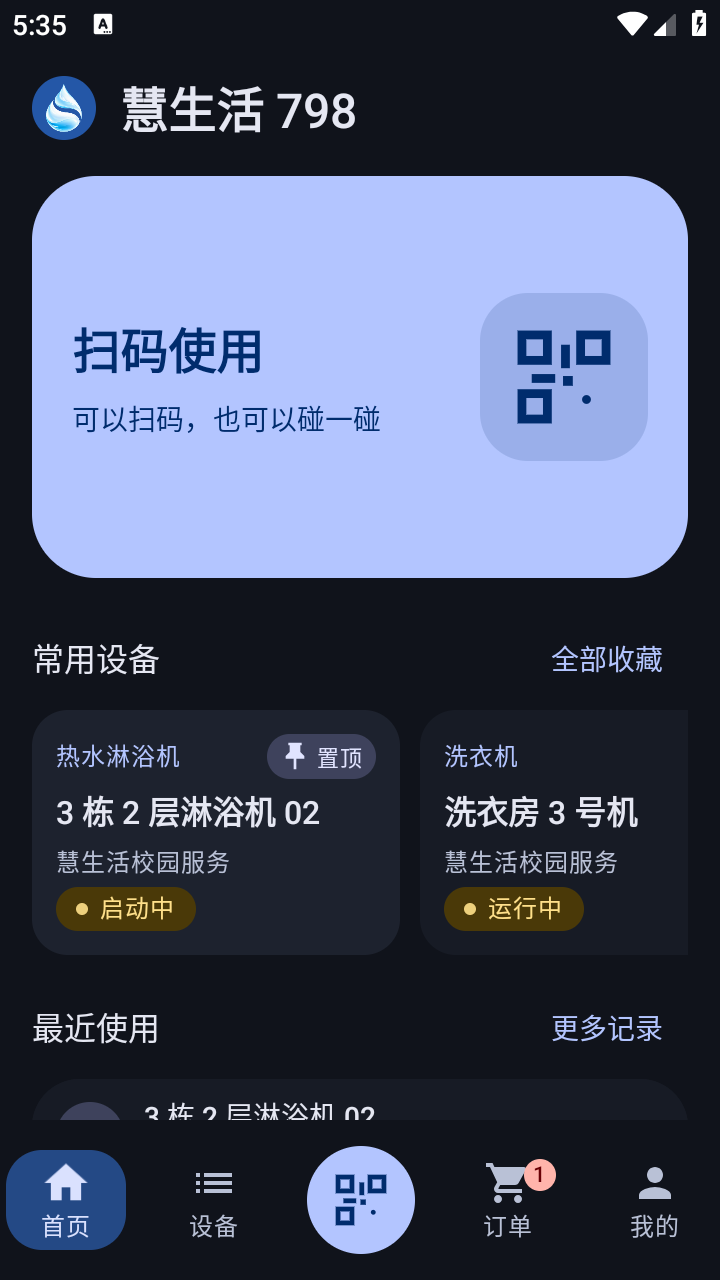
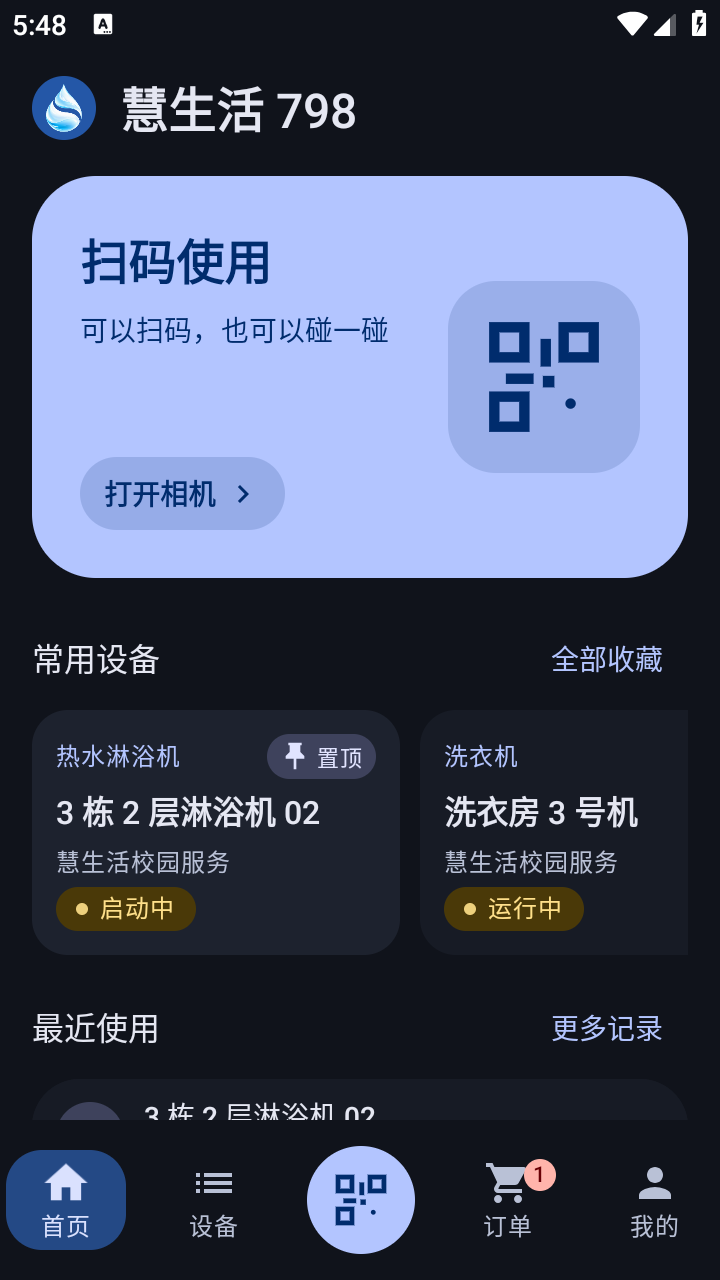
fix(ui): 重排首页扫码卡标题和相机入口

diff --git a/SmartLife798/app/src/main/java/com/smartlife798/app/ui/HomeScreen.kt b/SmartLife798/app/src/main/java/com/smartlife798/app/ui/HomeScreen.kt
@@ -277,6 +277,8 @@ fun HomeScreen(
 @Composable
 private fun ScanHeroCard(onScan: () -> Unit, modifier: Modifier = Modifier) {
     val palette = MaterialTheme.colorScheme.scanCardColors()
+    val cardHeight = 201.dp
+    val inset = 24.dp
     Card(
         onClick = onScan,
         modifier = modifier.sharedCard(CardOrigin.HOME_SCAN).fillMaxWidth(),
@@ -286,30 +288,59 @@ private fun ScanHeroCard(onScan: () -> Unit, modifier: Modifier = Modifier) {
         Row(
             modifier = Modifier
                 .fillMaxWidth()
-                .heightIn(min = 201.dp)
-                .padding(horizontal = 20.dp, vertical = AppLayout.Card),
+                .heightIn(min = cardHeight)
+                .padding(inset),
             verticalAlignment = Alignment.CenterVertically,
-            horizontalArrangement = Arrangement.spacedBy(16.dp),
+            horizontalArrangement = Arrangement.spacedBy(14.dp),
         ) {
-            Column(Modifier.weight(1f), verticalArrangement = Arrangement.spacedBy(6.dp)) {
-                Text(
-                    "扫码使用",
-                    style = MaterialTheme.typography.headlineSmall,
-                    fontWeight = FontWeight.SemiBold,
-                )
-                FlowRow {
-                    Text("可以扫码，", style = MaterialTheme.typography.bodyMedium)
-                    Text("也可以碰一碰", style = MaterialTheme.typography.bodyMedium)
+            Column(
+                modifier = Modifier.weight(1f).heightIn(min = cardHeight - inset * 2),
+                verticalArrangement = Arrangement.SpaceBetween,
+            ) {
+                Column(verticalArrangement = Arrangement.spacedBy(6.dp)) {
+                    Text(
+                        "扫码使用",
+                        style = MaterialTheme.typography.headlineSmall,
+                        fontWeight = FontWeight.SemiBold,
+                    )
+                    FlowRow {
+                        Text("可以扫码，", style = MaterialTheme.typography.bodyMedium)
+                        Text("也可以碰一碰", style = MaterialTheme.typography.bodyMedium)
+                    }
+                }
+                Surface(
+                    modifier = Modifier.padding(top = 12.dp),
+                    shape = MaterialTheme.shapes.extraLarge,
+                    color = palette.content.copy(alpha = 0.16f),
+                    contentColor = palette.content,
+                ) {
+                    Row(
+                        modifier = Modifier.padding(horizontal = 12.dp, vertical = 8.dp),
+                        verticalAlignment = Alignment.CenterVertically,
+                        horizontalArrangement = Arrangement.spacedBy(4.dp),
+                    ) {
+                        Text(
+                            "打开相机",
+                            style = MaterialTheme.typography.labelLarge,
+                            fontWeight = FontWeight.SemiBold,
+                            modifier = Modifier.weight(1f, fill = false),
+                        )
+                        Icon(
+                            Icons.AutoMirrored.Filled.KeyboardArrowRight,
+                            contentDescription = null,
+                            modifier = Modifier.size(18.dp),
+                        )
+                    }
                 }
             }
             Box(
                 modifier = Modifier
-                    .size(84.dp)
+                    .size(96.dp)
                     .clip(MaterialTheme.shapes.large)
                     .background(palette.content.copy(alpha = 0.14f)),
                 contentAlignment = Alignment.Center,
             ) {
-                QrGlyph(palette.content, Modifier.size(44.dp))
+                QrGlyph(palette.content, Modifier.size(52.dp))
             }
         }
     }

diff --git a/SmartLife798/app/src/androidTest/java/com/smartlife798/app/VisualAlignmentChecks.kt b/SmartLife798/app/src/androidTest/java/com/smartlife798/app/VisualAlignmentChecks.kt
@@ -70,6 +70,11 @@ object VisualAlignmentChecks {
                     val height = test.targetContext.resources.displayMetrics.heightPixels
                     val density = test.targetContext.resources.displayMetrics.density
                     val scanCard = cardBounds(test, "扫码使用")
+                    val action = checkNotNull(find(test, "打开相机"))
+                    val actionBounds = Rect().also(action::getBoundsInScreen)
+                    check(actionBounds.top > scanCard.centerY() && cardBounds(test, "打开相机") == scanCard) {
+                        "Camera action must be in the lower part of the single scan entry: $actionBounds, scan=$scanCard"
+                    }
                     val scanHeight = (201 * density).roundToInt()
                     val fontScale = test.targetContext.resources.configuration.fontScale
                     check(scanCard.height() >= scanHeight && (fontScale > 1f || scanCard.height() == scanHeight)) {
@@ -181,7 +186,7 @@ object VisualAlignmentChecks {
             stage = "scanner QR icon tap"
             SystemClock.sleep(500)
             val iconCard = cardBounds(test, "扫码使用")
-            val iconX = iconCard.right - (62 * density).toInt()
+            val iconX = iconCard.right - (72 * density).toInt()
             shell(test, "input tap $iconX ${iconCard.centerY()}")
             await { find(test, "手动输入") != null }
             back()

diff --git a/docs/02-功能设计与UI方案.md b/docs/02-功能设计与UI方案.md
@@ -150,7 +150,7 @@ App
 - 顶部显示应用图标与「慧生活 798」，页面沿统一边距对齐，普通分组间隔为 12dp，支持下拉刷新。
 - **进行中使用卡片**优先置于扫码入口上方（主题 tertiary 色）：受理后先显示「启动待确认」，不显示用时或声称运行；确认后显示服务端状态、更新时间与本机用时。结束使用为卡片主按钮，下方提供查看设备和使用记录。结束期间保持卡片和「正在结束…」；未确认则提示并保留查询入口。返回首页与重建恢复、轮询及并发规则见 [启动确认与对账](03-技术方案与开发计划.md#31-全自动刷新无手动刷新按钮)。
 
-- **扫码主卡**：左侧放操作标题与「可以扫码，也可以碰一碰」说明，右侧放二维码图标。整卡最小高度为重构前的 201dp，大字时随文案增高，上下与相邻区块至少间隔 16dp。点击卡片打开相机，碰一碰使用受支持的慧生活 NFC 卡片。
+- **扫码主卡**：左上显示标题和「可以扫码，也可以碰一碰」说明，左下显示「打开相机」，右侧放大二维码图标。整卡最小高度为重构前的 201dp，大字时随文案增高，上下与相邻区块至少间隔 16dp。整张卡共用一个打开相机的触控入口，碰一碰使用受支持的慧生活 NFC 卡片。
 - **常用设备**采用横滑卡片。多个收藏时，360dp 默认字号下单卡宽 184dp，让下一台设备露出更多；内容区能容纳两张易读卡片时并排完整展示。窄屏大字下卡片随字号加宽，单个收藏时占满内容区。卡片显示类型、名称、位置或编号、状态及置顶标记。
 - **最近使用**在同一容器中列出最多四条记录，使用紧凑的分隔行，每行触控区域至少 48dp；显示设备名称、类型、日期时间和使用次数。
 - 常用设备为空时提示从设备详情收藏，最近使用为空时提示暂无记录。
@@ -316,7 +316,7 @@ App
 - 底部导航（Expressive）：4 项 + 中央 54dp 官方增强扫码按钮；选中项为药丸高亮 + 图标 1.08 倍弹性缩放 + 颜色渐变，未选中项使用 onSurfaceVariant。待付角标放在图标槽内，不越过药丸裁剪边界，保持大字体下数字完整与各项图标/文字基线一致。
 - 主题采用官方 `MaterialExpressiveTheme` 与 `MotionScheme.expressive()`；主按钮、文字和图标按钮使用官方按压形变。设备/订单分栏、筛选、设备类型、模式和渠道使用带自动溢出的 `ButtonGroup`；全部可见时按压扩张 25%，相邻按钮随之让位并回弹，溢出时停用宽度扩张以免覆盖「更多」，保留官方按钮形变。启动页与外观使用共享交互源的官方宽度动效，保持仅背景选中和单选语义，大字选项自然换行并垂直居中。扫码使用增强 `FilledIconButton`。刷新指示器使用 `surfaceContainerHigh` 中性底与 `primary` 图形，保留官方下拉与形变加载，浅色、深色及动态取色共用主题语义色。设备/订单第一行分栏使用实心主色选中，第二行类型/账单筛选使用低强调色调与较小文字，未选中项也使用 surfaceContainerHighest 背景与 outlineVariant 边界；统一选择按钮的基础与选中圆角为 14dp，按压仍使用官方形变。按钮、选择与加载沿用系统动画倍率，无额外固定操作锁。
 - 加载：页面使用 `ContainedLoadingIndicator`，按钮内使用 `LoadingIndicator`，下拉刷新使用固定组合的官方轻量 `PullToRefreshDefaults.Indicator`，避免手势首帧创建复杂形变组件；拉动距离、松手和刷新沿用同一个手势状态。长任务与更新下载使用 `LinearWavyProgressIndicator`；下载仍显示真实字节百分比，未确定进度不伪装为确定进度。删除旧自绘波浪实现。
-- 首页扫码主卡与中央扫码按钮共用高亮主题配对和二维码图标；主卡使用 headlineSmall 标题和 bodyMedium 说明，二维码图标位于 84dp 色块内。首页的触控反馈沿用 Material 组件，空态使用简短的文字提示。
+- 首页扫码主卡与中央扫码按钮共用高亮主题配对和二维码图标；主卡使用 headlineSmall 标题和 bodyMedium 说明，二维码图标位于 96dp 色块内。首页的触控反馈沿用 Material 组件，空态使用简短的文字提示。
 - 按压反馈由增强组件的形状与主题动效驱动；共享卡片与页面切换规则见下节，不为按钮再叠统一缩放或固定时长。
 - 状态胶囊、指标块、信息行、空态、错误态、提示条、设备卡、账单行、底部详情面板。
 
@@ -361,7 +361,7 @@ App
 
 | 页面 | 文件 | 来源与限制 |
 |---|---|---|
-| 首页 | [home.png](../screenshots/home.png) | 2.2.11 / 91 离线开发构建，API 28，默认字号 |
+| 首页 | [home.png](../screenshots/home.png) | 2.2.12 / 92 离线开发构建，API 28，默认字号 |
 | 设备 | [devices.png](../screenshots/devices.png) | 2.1.1，浅色列表、置顶优先与可辨识的未选中按钮 |
 | 订单 | [orders.png](../screenshots/orders.png) | 2.1.1，普通记录 |
 | 待付款 | [preview_bills.png](../screenshots/preview_bills.png) | 2.1.1，账单筛选 |
@@ -373,7 +373,7 @@ App
 | 提示条 | [notice.png](../screenshots/notice.png) | 1.19.6，真实 Snackbar + 虚构签到响应 |
 | 账单详情 | [bill_detail.png](../screenshots/bill_detail.png) | 当前离线开发构建，固定视口、左暂不支付右去支付且等宽等高 |
 | 浅色支付面板 | [payment.png](../screenshots/payment.png) | 2.1.1，仅读取渠道，零付款/命令请求 |
-| 深色首页 | [dark.png](../screenshots/dark.png) | 2.2.11 / 91 离线开发构建，API 28，默认字号 |
+| 深色首页 | [dark.png](../screenshots/dark.png) | 2.2.12 / 92 离线开发构建，API 28，默认字号 |
 | 深色外观 | [appearance_dark.png](../screenshots/appearance_dark.png) | 本次样式开发构建 2.1.2 / 70，API 28，深色更新按钮与选项层级 |
 | 深色支付面板 | [payment_dark.png](../screenshots/payment_dark.png) | 2.1.1，未提交付款 |
 | 首次使用 | [guide-first.png](../screenshots/guide-first.png) | 2.1.1，独立离线包，三页基础卡 |

diff --git a/README.md b/README.md
@@ -6,7 +6,7 @@
 |---|---|
 | 正式版包名 | `com.smartlife798.app` |
 | Beta 版包名 | `com.smartlife798.app.debug` |
-| 当前版本 | `2.2.11`（`versionCode 91`） |
+| 当前版本 | `2.2.12`（`versionCode 92`） |
 | 技术栈 | Kotlin 2.2 · Jetpack Compose (Material 3 Expressive) · OkHttp · CameraX + ML Kit · Alipay SDK |
 | 最低版本 | Android 7.0（API 24） |
 | 正式发布 | [最新 Release](https://github.com/wu-shanglin/Smartlife798/releases/latest) |
@@ -15,7 +15,7 @@
 
 ## 当前版本
 
-**2.2.11 / 91**（开发候选）：首页扫码卡恢复重构前的 201dp 最小高度，并提示可扫码或碰一碰。
+**2.2.12 / 92**（开发候选）：首页扫码卡重新组织标题、说明、相机操作与二维码图标。
 
 **2.1.11 / 79** 适配原版 3.1.10 短信登录签名，补齐登录请求的 `sign` 参数。签名通过原版合成向量及离线登录验证，真实账号验收待完成。详见 [登录签名](docs/01-逆向分析报告.md#51-登录与账号)。
 
@@ -49,13 +49,13 @@
 
 ## 构建与产物
 
-2.2.11 为开发候选版本，日常试装使用独立 Debug 包。
+2.2.12 为开发候选版本，日常试装使用独立 Debug 包。
 
 唯一 Android 工程为 `SmartLife798/`；先按 [构建与运行](docs/03-技术方案与开发计划.md#4-构建与运行) 准备 JDK/SDK、本机 `local.properties`，再按 [检查与证据](docs/06-工程规范与路线图.md#2-检查与证据) 执行适用检查。release 签名及产物准备见 [版本与发布](docs/06-工程规范与路线图.md#3-版本与发布)。
 
 | 本地构建 | 文件 |
 |---|---|
-| 产物 | [`dist/SmartLife798-2.2.11-release.apk`](dist/SmartLife798-2.2.11-release.apk) |
+| 产物 | [`dist/SmartLife798-2.2.12-release.apk`](dist/SmartLife798-2.2.12-release.apk) |
 
 日常试装使用 `SmartLife798/app/build/outputs/apk/debug/app-debug.apk`。桌面的「慧生活 798 Beta 版」可与正式版并存，分别保存应用数据。上表是正式发布时的产物路径，只有明确授权打包 Release 并发布后才生成。
 
@@ -65,7 +65,7 @@
 
 ## 截图
 
-浅色和深色首页截图来自 2.2.11 / 91 的 API 28 离线构建，设备详情截图来自 2.2.9 / 89；其他主要截图来自 2.1.1 / 69 候选的独立 `.offline` 夹具，使用真实 Compose 页面与终止式传输采集；此前默认字号与窄屏大字完成操作回归，不代表真机帧率、签到、充值或支付验收。提示条保留历史夹具来源。来源与限制见 [截图清单](docs/02-功能设计与UI方案.md#7-界面截图)。
+浅色和深色首页截图来自 2.2.12 / 92 的 API 28 离线构建，设备详情截图来自 2.2.9 / 89；其他主要截图来自 2.1.1 / 69 候选的独立 `.offline` 夹具，使用真实 Compose 页面与终止式传输采集；此前默认字号与窄屏大字完成操作回归，不代表真机帧率、签到、充值或支付验收。提示条保留历史夹具来源。来源与限制见 [截图清单](docs/02-功能设计与UI方案.md#7-界面截图)。
 
 | 首页 | 设备 | 订单 |
 |---|---|---|

diff --git a/CHANGELOG.md b/CHANGELOG.md
@@ -7,6 +7,8 @@
 
 ## [Unreleased]
 
+- 同步扫码卡排版说明与浅色、深色首页截图。
+
 - 同步扫码卡高度、说明和浅色、深色首页截图。
 
 - 同步扫码卡内部排版说明与浅色、深色首页截图。
@@ -35,6 +37,12 @@
 - 核对 2.1.10 正式发布及公开更新附件。
 
 - 任务分支完成后同步清理已合并且不再使用的本地和远端分支。
+
+## [2.2.12] - 2026-11-12
+
+> Beta 构建，未正式发布。
+
+- 重排首页扫码卡的标题、说明与相机操作，放大右侧二维码图标，适配 201dp 卡片高度。
 
 ## [2.2.11] - 2026-11-12
 
